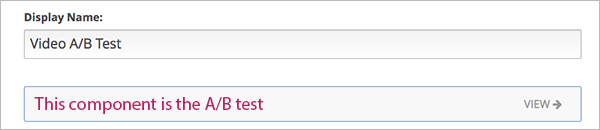
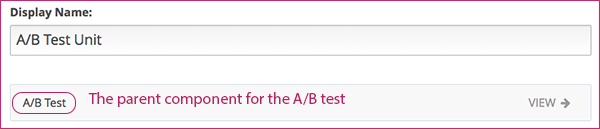
edits

Changed region(s): [[0.0, 0.0, 1.0, 1.0]]

diff --git a/docs/en_us/course_authors/source/building_course/organizing_course.rst b/docs/en_us/course_authors/source/building_course/organizing_course.rst
@@ -127,7 +127,7 @@ When you create a new unit, a page opens for that unit. On the unit page, you ca
 
 - Enter the unit name that you want in the **Display Name** field. Note that students do not see the unit name.
 - Create components in the unit.
-- Change the visibility of the unit. By default, the unit visibility is set to **Private**, so students will not be able to see the unit.Unless you want students to see the unit immediately, leave this setting as-is. For more information, see :ref:`Publishing Your Course`.
+- Change the visibility of the unit. By default, the unit visibility is set to **Private**, so students will not be able to see the unit.Unless you want students to see the unit immediately, leave this setting as-is. For more information, see :ref:`Public and Private Units`.
 - Preview a draft of the unit.
 - If a unit has been published, view the live version of the unit.
 
@@ -245,25 +245,26 @@ Click the Delete icon.  Then follow instructions for the type of component you a
 Components that Contain Other Components
 ******************************************
 
-You can configure your course content so that components contain other components.  One example of when you would need to do this is for A/B tests.  See :ref:`Setting Up A/B Tests` for more information.
+You can configure your course content so that components contain other components.  Example of when you would need to do this is for conditional content or A/B tests.  See :ref:`Setting Up A/B Tests` for more information.
 
 The component that contains other components is referred to as the parent; the contained components are referred to as children.  
 
-In the unit page, a parent component appears with the display name and a **VIEW** link:
+In the unit page, a parent component appears with the display name and a **VIEW** link. For example:
 
 .. image:: Images/component_container.png
  :alt: Image of a unit page with a parent component
 
-When you click **VIEW**, the parent component page opens.  Breadcrumbs at the top of the page indicate that the components you are viewing are the children components:
+When you click **VIEW**, the parent component page opens, showing all child components.  Breadcrumbs at the top of the page show the unit and parent component:
 
 .. image:: Images/child-components.png
  :alt: Image of a child component page
 
-As shown in this example, a single component can be the child of one component, and the parent of other components. These relationships are also referred to as "nested components".
+Click the arrow next to a child component name to expand that component to see its contents. In this example, Child Component A contains an HTML component and a video:
+
+.. image:: Images/child_component_a.png
+ :alt: Image of an expanded child component
 
 .. note:: In this release, parent and child components are read-only in Studio. You set up components and their relationships to each other in XML. You can then import the course into Studio and verify that your course components are organized as you intended.
-
-
 
 
 ======================================
@@ -272,7 +273,7 @@ XML for Parent and Child Components
 
 You develop parent and child components in XML, then import the XML course into Studio to verify that the structure is as you intended. The following examples show the XML used to create the unit and components shown in Studio above.
 
-The XML for Unit one is:
+The XML for the unit is:
 
 .. code-block:: xml
 
@@ -281,7 +282,7 @@ The XML for Unit one is:
   <vertical url_name="131a499ddaa3474194c1aa2eced34455"/>
  </vertical>
 
-The ``<vertical>`` element above references the parent component file that contains the child components:
+The ``<vertical url_name="131a499ddaa3474194c1aa2eced34455"/>`` element above references the parent component file that contains the child components:
  
 .. code-block:: xml
 
@@ -294,14 +295,14 @@ The two verticals referenced by the parent component refer to the child componen
 
 .. code-block:: xml
 
- <vertical display_name="Child Components">
+ <vertical display_name="Child Component A">
   <html url_name="4471618afafb45bfb86cbe511973e225"/>
   <video url_name="fbd800d0bdbd4cb69ac70c47c9f699e1"/>
  </vertical>
 
 .. code-block:: xml
 
- <vertical display_name="Child Components">
+ <vertical display_name="Child Component B">
   <html url_name="dd6ef295fda74a639842e1a49c66b2c7"/>
   <problem url_name="b40ecbe4ed1b4280ae93e2a158edae6f"/>
  </vertical>
@@ -316,8 +317,11 @@ The Student View of Nested Components
 
 For students, all parent and child components are displayed on the unit page. The following example shows the student view of the unit described above:
 
+TO REPLACE
+
 .. image:: Images/nested_components_student_view.png
  :alt: Image of the student's view of nested components
+
 
 .. _Reorganize Your Course:
 

diff --git a/docs/en_us/course_authors/source/a_b_tests.rst b/docs/en_us/course_authors/source/a_b_tests.rst
@@ -44,6 +44,8 @@ You can change the group selection to see the different video that a different g
 .. image:: Images/a-b-test-lms-group-2.png
  :alt: Image of a unit page with Group 2 selected
 
+ .. note:: The example course content in this chapter use A/B test terminology to make the functionality clear. Typically, you do not want to use terminology in course content that would make students aware of the experiment.
+
 .. _The Studio Outline View of A/B Tests:
 
 ********************************************
@@ -61,10 +63,15 @@ For example, the following unit page contains just one component, which is the A
 .. image:: Images/a-b-test-studio_unit_page.png
  :alt: Image of a unit page in Studio and an A/B test component
 
+You see the A/B test's child components by clicking the arrow in the link above.  A read-only page then shows all the components in the A/B test:
 
-.. You see the A/B test's child components by clicking the arrow in the link above.  A read-only page then shows all the components in the A/B test:
+.. image:: Images/a_b_test_children.png
+ :alt: Image of the A/B test child components
 
-.. no image, studio issue currently
+Click the arrow next to a test component name to expand that test to see its contents. In this example, Group A contains an HTML component and a video:
+
+.. image:: Images/a_b_test_child_expanded.png
+ :alt: Image of an expanded A/B test component
 
 .. _Configure the A/B Test in XML:
 
